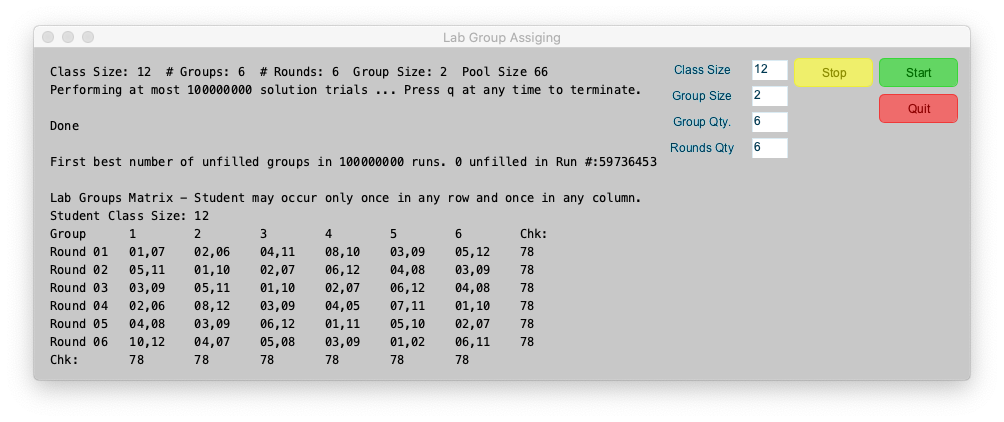
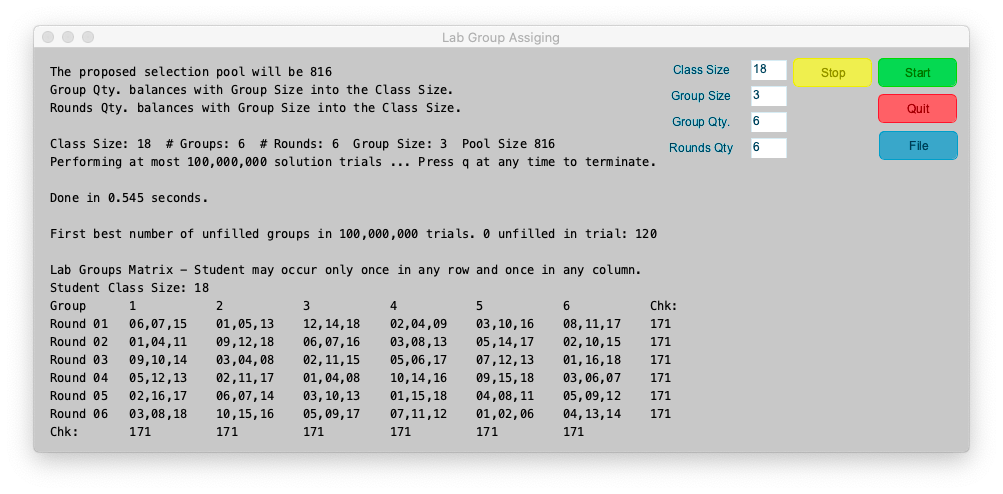
Readme edit

diff --git a/README.md b/README.md
@@ -21,9 +21,11 @@
 
 ## Notes
 
+* The application window is resizable.
 * The Chk: values are checksum values that are the sum of the assigned student id numbers. Properly assigned row and columns will have the same checksum.
 * Matrix values like --,--,-- indicate there was no valid lab group solution determined for the trial run.
 * This program makes random lab group selections for each matrix value from an ever decreasing pool of remaining possible lab group candidates. It records the most filled assignment matrix. Selection trials stops when the matrix is totally filled or after the number of solution trials is expired.
-* The time required to complete the assignment matrix is a function of the selection pool size. The selection pool size depends on the class size (**n**) and the group size (**k**) as **n!/k!\*(n-k)!** . The number of possible assignment matrices of size **gr** (group qty x rounds qty) that can be selected from the pool size **p** is **p!/gr!\*(p-gr)!** . That number can be enormous. The Example Screen - Solution Found image shows a solution determined at the 59,736,453 trial.
-* The number of valid solution matrices within the pool of possible assignment matrices is not known to this author but the number appears to be large enough to soon find a valid solution at random from a pool of 3 billion possible for a 5x5 matrix using a 2 group size.
+* The time required to complete the assignment matrix is a function of the selection pool size. The selection pool size depends on the class size (**n**) and the group size (**k**) as **n!/k!\*(n-k)!** . The number of possible assignment matrices of size **gr** (group qty x rounds qty) that can be selected from the pool size **p** is **p!/gr!\*(p-gr)!** . That number can be enormous. 
+* The number of valid solution matrices within the pool of possible assignment matrices is not known to this author but the number appears to be large enough to quickly find a valid solution at random from a pool of 3 billion possible for a 5x5 matrix using a 2 group size.
 * Pressing the **q** key stops the process and outputs the current best solution.
+* The **File** button creates a text file of the current results within the folder that contains the application. The file name "LabGroupMatrix" with a time code indicating the time the file is created. For example such a file named LabGroupMatrix.2021-5-16_114944.txt was made at 11:49:44 pm on May 16, 2021.
